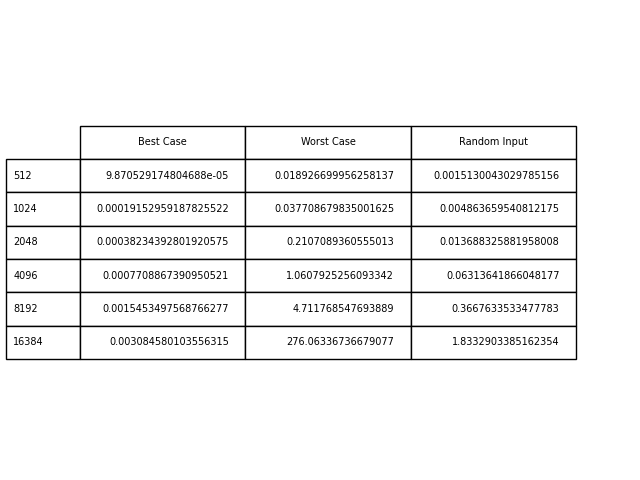
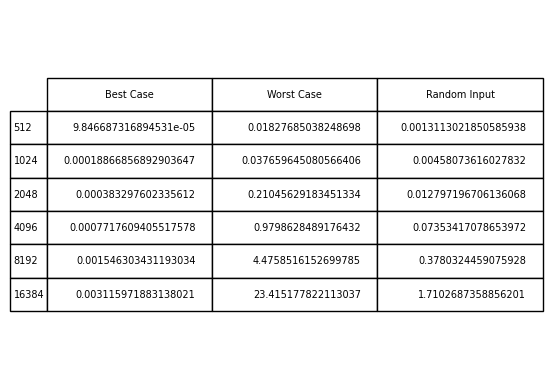
rerun q3

Changed region(s): [[0.0, 0.1851, 1.0, 0.8021]]

diff --git a/hw5/eqsubstr.py b/hw5/eqsubstr.py
@@ -91,18 +91,6 @@ def rndstr(n):
     ans=[rndchr() for i in range(n)]
     return "".join(ans)
 
-    
-# s = "abcabbaacabaabbbb"
-# c1 = "a"
-# c2 = "b"
-# ans = matching_length_sub_strs(s, c1, c2)
-# print(ans)
-
-# s = "aaabbcabbbaa"
-# c1 = "a"
-# c2 = "b"
-# ans = matching_length_sub_strs(s, c1, c2)
-# print(ans)
 
 def getSize(n):
     size = [n]
@@ -182,40 +170,40 @@ def main():
     
     # The following part are comment for submitting
     
-    # Save plot
-    # plt.figure(figsize=(8, 6))
+    #Save plot
+    plt.figure(figsize=(8, 6))
 
-    # plt.plot(sizeArr, time[0], label='Best Case', color='blue')
-    # plt.plot(sizeArr, time[1], label='Worst Case', color='green')
-    # plt.plot(sizeArr, time[2], label='Random Input', color='red')
-    # plt.xlabel('Input Size')
-    # plt.ylabel('Runtime')
-    # plt.title('Matching Length Substrings')
-    # plt.legend()
+    plt.plot(sizeArr, time[0], label='Best Case', color='blue')
+    plt.plot(sizeArr, time[1], label='Worst Case', color='green')
+    plt.plot(sizeArr, time[2], label='Random Input', color='red')
+    plt.xlabel('Input Size')
+    plt.ylabel('Runtime')
+    plt.title('Matching Length Substrings')
+    plt.legend()
 
-    # plt.savefig('q3.png')
+    plt.savefig('q3.png')
     
-    # #import packages
+    #import packages
 
-    # fig, ax =plt.subplots(1, 1)
+    fig, ax =plt.subplots(1, 1)
 
-    # table = pd.DataFrame()
-    # table['Best Case'] = time[0]
-    # table['Worst Case'] = time[1]
-    # table['Random Input'] = time[2]
-    # table.index = rowname # type: ignore
+    table = pd.DataFrame()
+    table['Best Case'] = time[0]
+    table['Worst Case'] = time[1]
+    table['Random Input'] = time[2]
+    table.index = rowname # type: ignore
         
-    # ax.axis('tight')
-    # ax.axis('off')
+    ax.axis('tight')
+    ax.axis('off')
 
-    # #plotting data
-    # table = ax.table(cellText = table.values,
-    #         colLabels = table.columns,
-    #         rowLabels = sizeArr,
-    #         loc="center")
-    # table.set_fontsize(14)
-    # table.scale(1,2)
-    # plt.savefig('q3_table.png')
+    #plotting data
+    table = ax.table(cellText = table.values,
+            colLabels = table.columns,
+            rowLabels = sizeArr,
+            loc="center")
+    table.set_fontsize(14)
+    table.scale(1,2)
+    plt.savefig('q3_table.png')
     
     return 0
 
